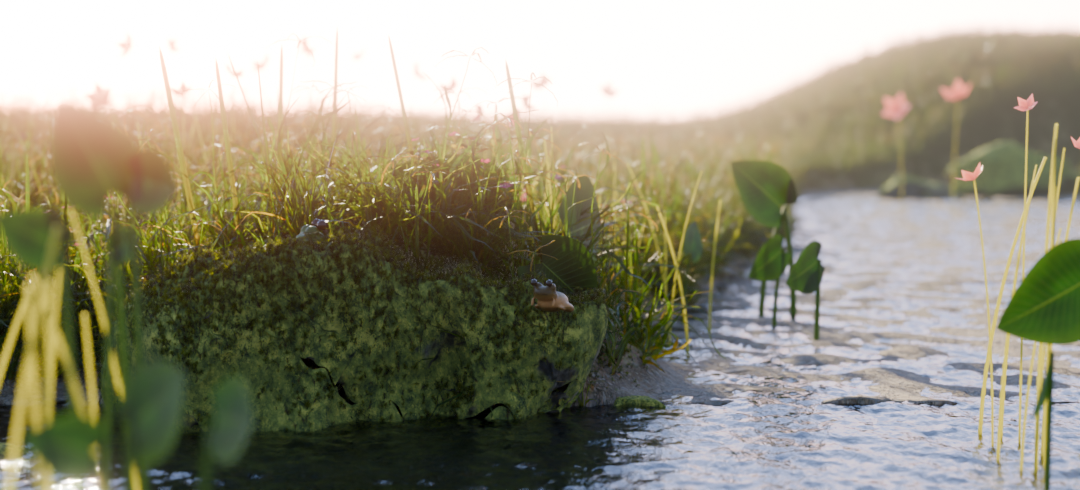
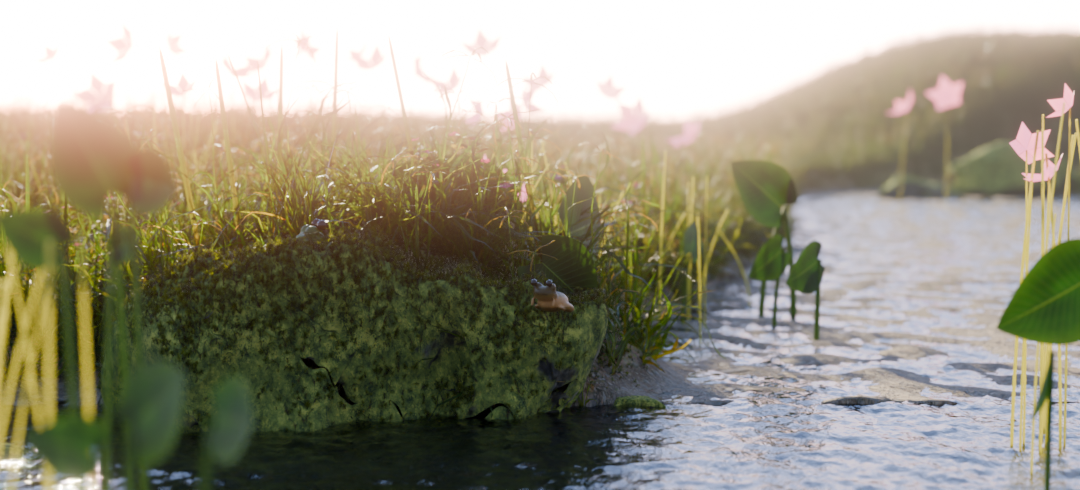
Creek scene: brighter, larger glowing flowers, a bit less grass, brighter sky
Claude-Session: https://claude.ai/code/session_01K2jeMQuhDLuDxGG8CNrseQ

diff --git a/tools/creek/build_scene.py b/tools/creek/build_scene.py
@@ -475,9 +475,9 @@ weight_group(terrain, "bankmoss", rock_bank_weight)
 weight_group(terrain, "back", back_weight)
 weight_group(terrain, "flower", lambda p: 1.0 if p.z > 0.02 and 0.0 < p.y < 2.5 and p.x < 0.8 else 0.0)
 weight_group(terrain, "far", lambda p: (1.0 if p.z > 0.025 and p.y > 2.2 and -2.5 < p.x < 4.0 else 0.0) * (1 - 0.85 * smooth(-0.8, 0.0, p.x) * (1 - smooth(1.4, 2.4, p.x))))
-scatter(terrain, grass_tall, "grass", 3200, 0.22, 0.4, 0.25, 3)
+scatter(terrain, grass_tall, "grass", 2600, 0.22, 0.4, 0.25, 3)
 scatter(terrain, grass_short, "short", 2000, 0.6, 1.2, 0.2, 9)
-scatter(terrain, grass_tall, "back", 4200, 0.32, 0.6, 0.2, 41)
+scatter(terrain, grass_tall, "back", 3400, 0.32, 0.6, 0.2, 41)
 scatter(terrain, flowers_lib, "flower", 14, 0.22, 0.4, 0.15, 21)
 scatter(terrain, grass_tall, "far", 1600, 0.3, 0.55, 0.2, 33)
 
@@ -845,8 +845,8 @@ for args in TARO:
 petal_mat = tex_material("flower_petal", "flower_petal_color.png", None, "taro_leaf_translucency.png", rough=0.5)
 _pb = next(n for n in petal_mat.node_tree.nodes if n.type == "BSDF_PRINCIPLED")
 _pc = next(n for n in petal_mat.node_tree.nodes if n.type == "TEX_IMAGE")
-petal_mat.node_tree.links.new(_pc.outputs["Color"], _pb.inputs["Emission Color"])
-_pb.inputs["Emission Strength"].default_value = 1.2
+_pb.inputs["Emission Color"].default_value = (0.95, 0.22, 0.42, 1)
+_pb.inputs["Emission Strength"].default_value = 2.5
 stalk_mat, snt, sout = new_material("stalk")
 sb = node(snt, "ShaderNodeBsdfPrincipled")
 sb.inputs["Base Color"].default_value = (0.55, 0.6, 0.12, 1)
@@ -897,13 +897,14 @@ def ground_below(p):
 FLOWERS = [(135, 48, 2.6), (178, 47, 2.8), (222, 78, 2.0), (168, 95, 1.6), (305, 45, 2.4), (318, 52, 2.4),
            (452, 92, 2.2), (500, 113, 1.7), (512, 118, 1.7), (520, 104, 2.0), (553, 88, 2.8), (528, 205, 1.3),
            (494, 182, 1.3), (85, 98, 2.4), (270, 70, 3.0), (370, 60, 3.2), (420, 75, 2.8), (600, 95, 3.5),
+           (60, 60, 2.4), (250, 100, 2.0), (395, 70, 2.6), (480, 55, 3.0), (640, 120, 3.4), (700, 140, 3.0),
            (1048, 108, 0.9), (1058, 150, 0.9), (1030, 180, 0.9), (955, 98, 4.0), (900, 110, 4.2)]
 for px, py, d in FLOWERS:
     head = unproject(px, py, d)
     base = Vector((head.x + rnd.uniform(-0.02, 0.02), head.y, 0))
     base.z = ground_below(base)
     flower(base, head.z - base.z, rnd.uniform(-0.02, 0.02), rnd.uniform(0, math.tau),
-           px_size(d) * rnd.uniform(12, 17))
+           px_size(d) * rnd.uniform(18, 26))
 
 # backlit yellow grass blades and stalks: (px range, py top range, distance range, count)
 REEDS = [((0, 85), (200, 330), (0.45, 0.6), 8), ((480, 570), (125, 205), (1.2, 1.4), 16),
@@ -1030,10 +1031,10 @@ wn.links.new(env.outputs["Color"], bg.inputs["Color"])
 cam_bg = node(wn, "ShaderNodeBackground", (-100, -200))
 tint = node(wn, "ShaderNodeMix", (-250, -200), data_type="RGBA", blend_type="MULTIPLY")
 tint.inputs["Factor"].default_value = 1.0
-tint.inputs[7].default_value = (1.0, 0.94, 0.8, 1)
+tint.inputs[7].default_value = (1.0, 0.96, 0.86, 1)
 wn.links.new(env.outputs["Color"], tint.inputs[6])
 wn.links.new(tint.outputs[2], cam_bg.inputs["Color"])
-cam_bg.inputs["Strength"].default_value = 2.6
+cam_bg.inputs["Strength"].default_value = 4.0
 lp = node(wn, "ShaderNodeLightPath", (-300, 300))
 wmix = node(wn, "ShaderNodeMixShader", (50, 0))
 wn.links.new(lp.outputs["Is Camera Ray"], wmix.inputs["Fac"])
